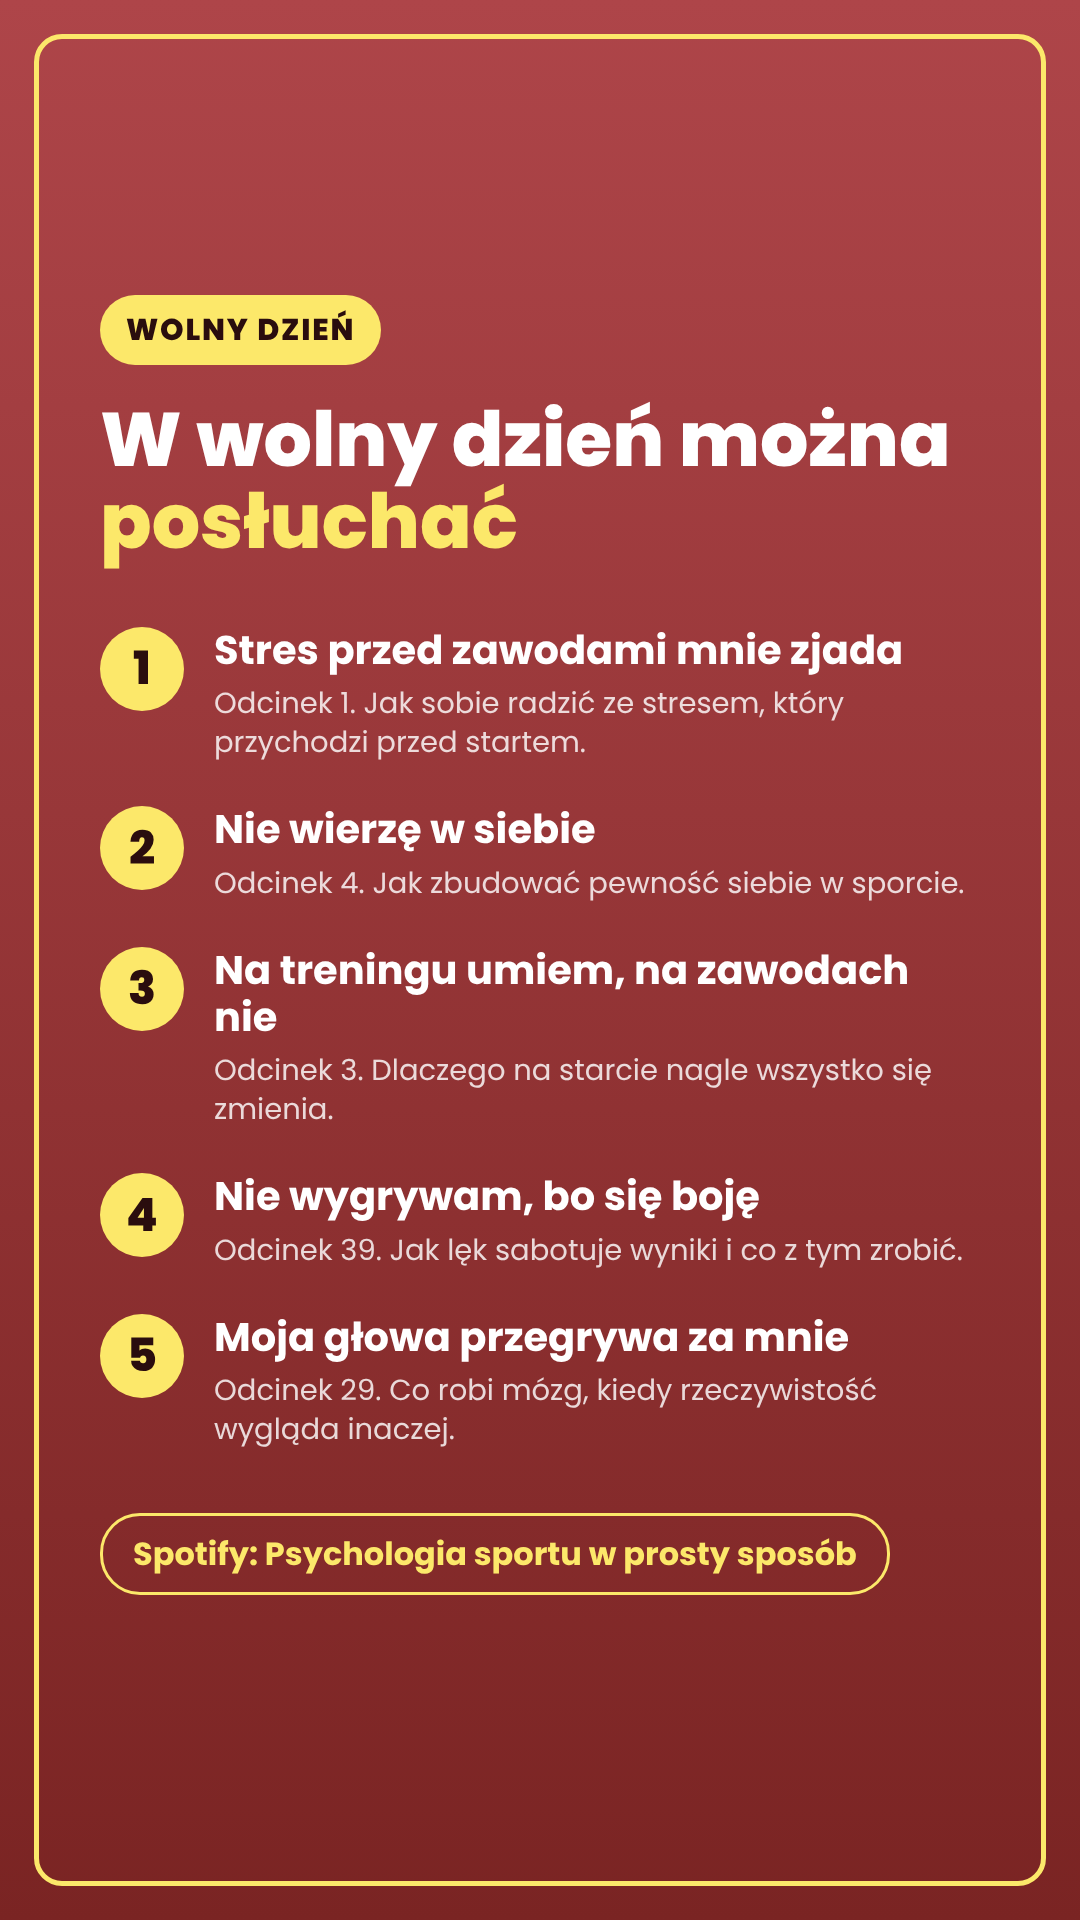
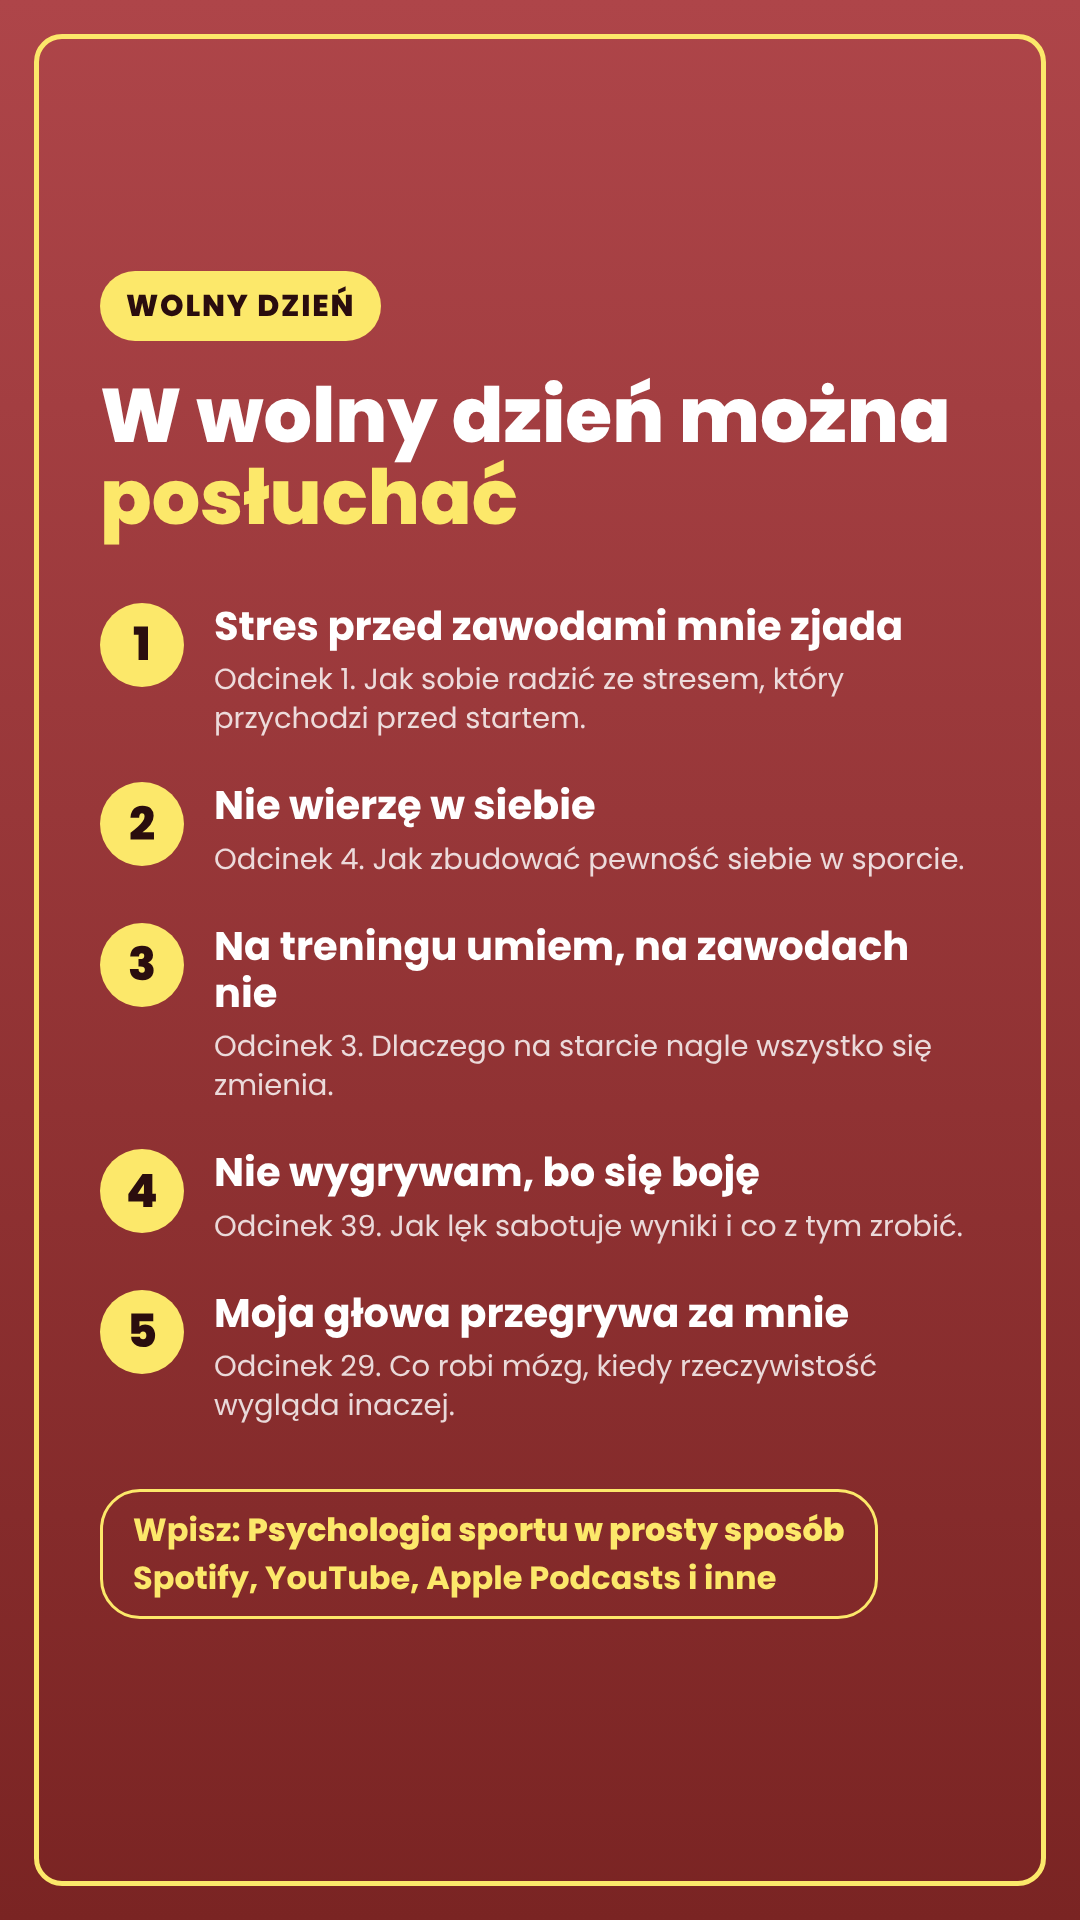
Relacja podcast: gdzie szukać (Spotify, YouTube, Apple)
Claude-Session: https://claude.ai/code/session_01A5PTvWpyS7iEo6fG2kmJPS

Changed region(s): [[0.0917, 0.125, 0.8861, 0.75], [0.0917, 0.7812, 0.825, 0.8438]]

diff --git a/tools/relacja-top5.js b/tools/relacja-top5.js
@@ -14,6 +14,6 @@ const html=`<!doctype html><html><head><meta charset=utf-8><style>${css}body{mar
 <div style="align-self:flex-start;background:#FCE86A;color:#2a0d0e;font-weight:800;font-size:30px;letter-spacing:.06em;padding:12px 26px;border-radius:40px">${e(s.kicker)}</div>
 <div style="margin-top:34px;font-weight:800;font-size:76px;line-height:1.08;color:#fff">${e(s.title)}</div>
 <div style="height:64px"></div>${items}
-<div style="margin-top:64px;align-self:flex-start;border:3px solid #FCE86A;color:#FCE86A;font-weight:700;font-size:32px;padding:14px 30px;border-radius:40px">${e(s.cta)}</div>
+<div style="margin-top:64px;align-self:flex-start;border:3px solid #FCE86A;color:#FCE86A;font-weight:700;font-size:32px;padding:14px 30px;border-radius:40px">${e(s.cta).replace(/\n/g,"<br>")}</div>
 </div></body></html>`;
 render(html,process.argv[3],1080,1920).then(()=>console.log('ok'));
